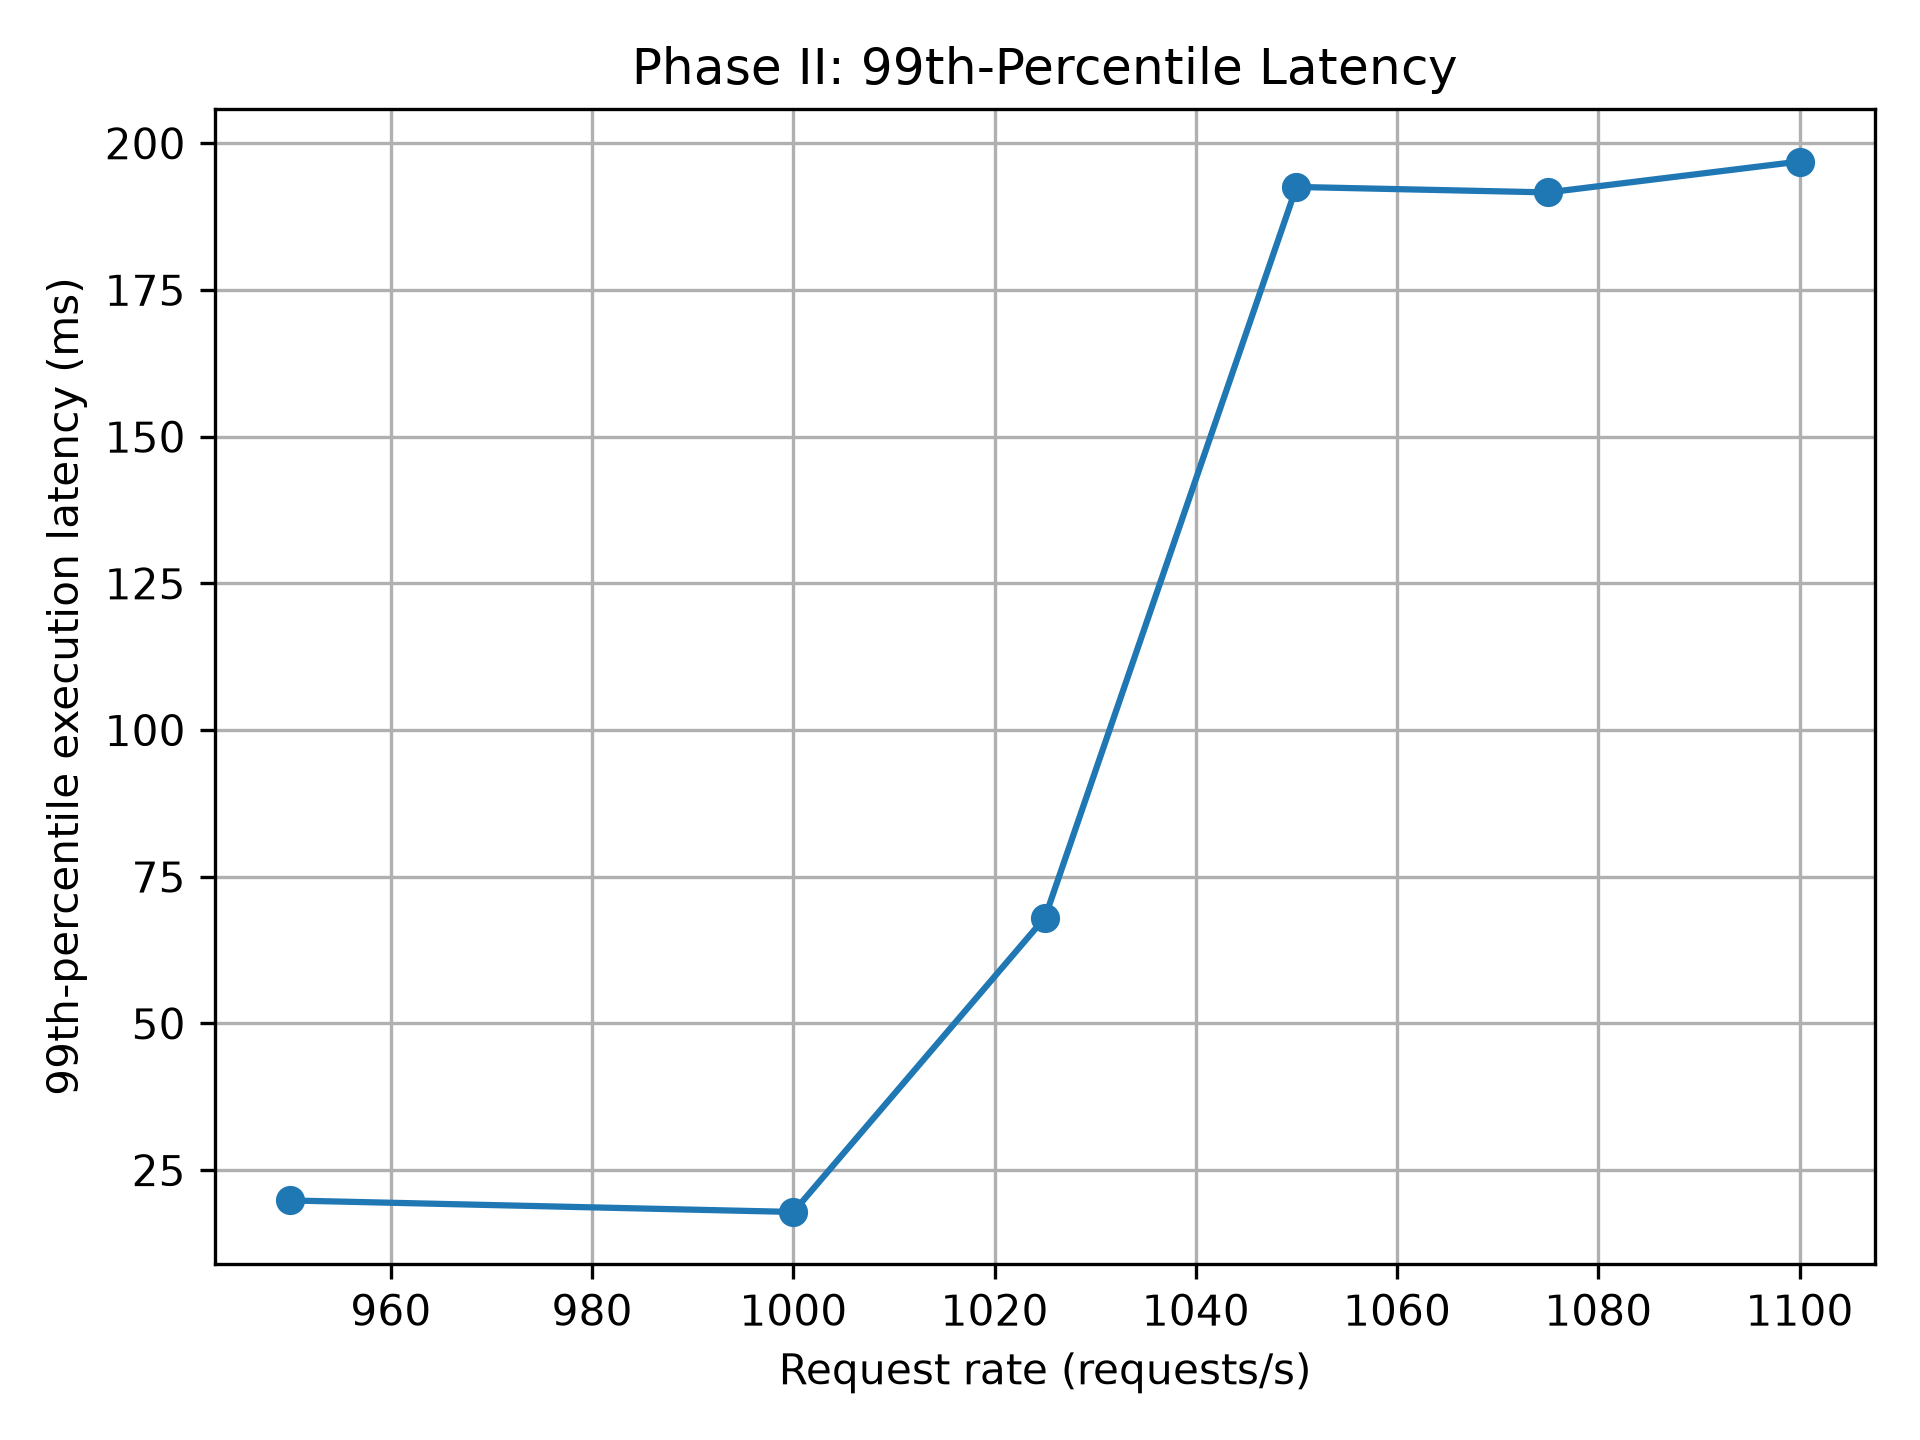
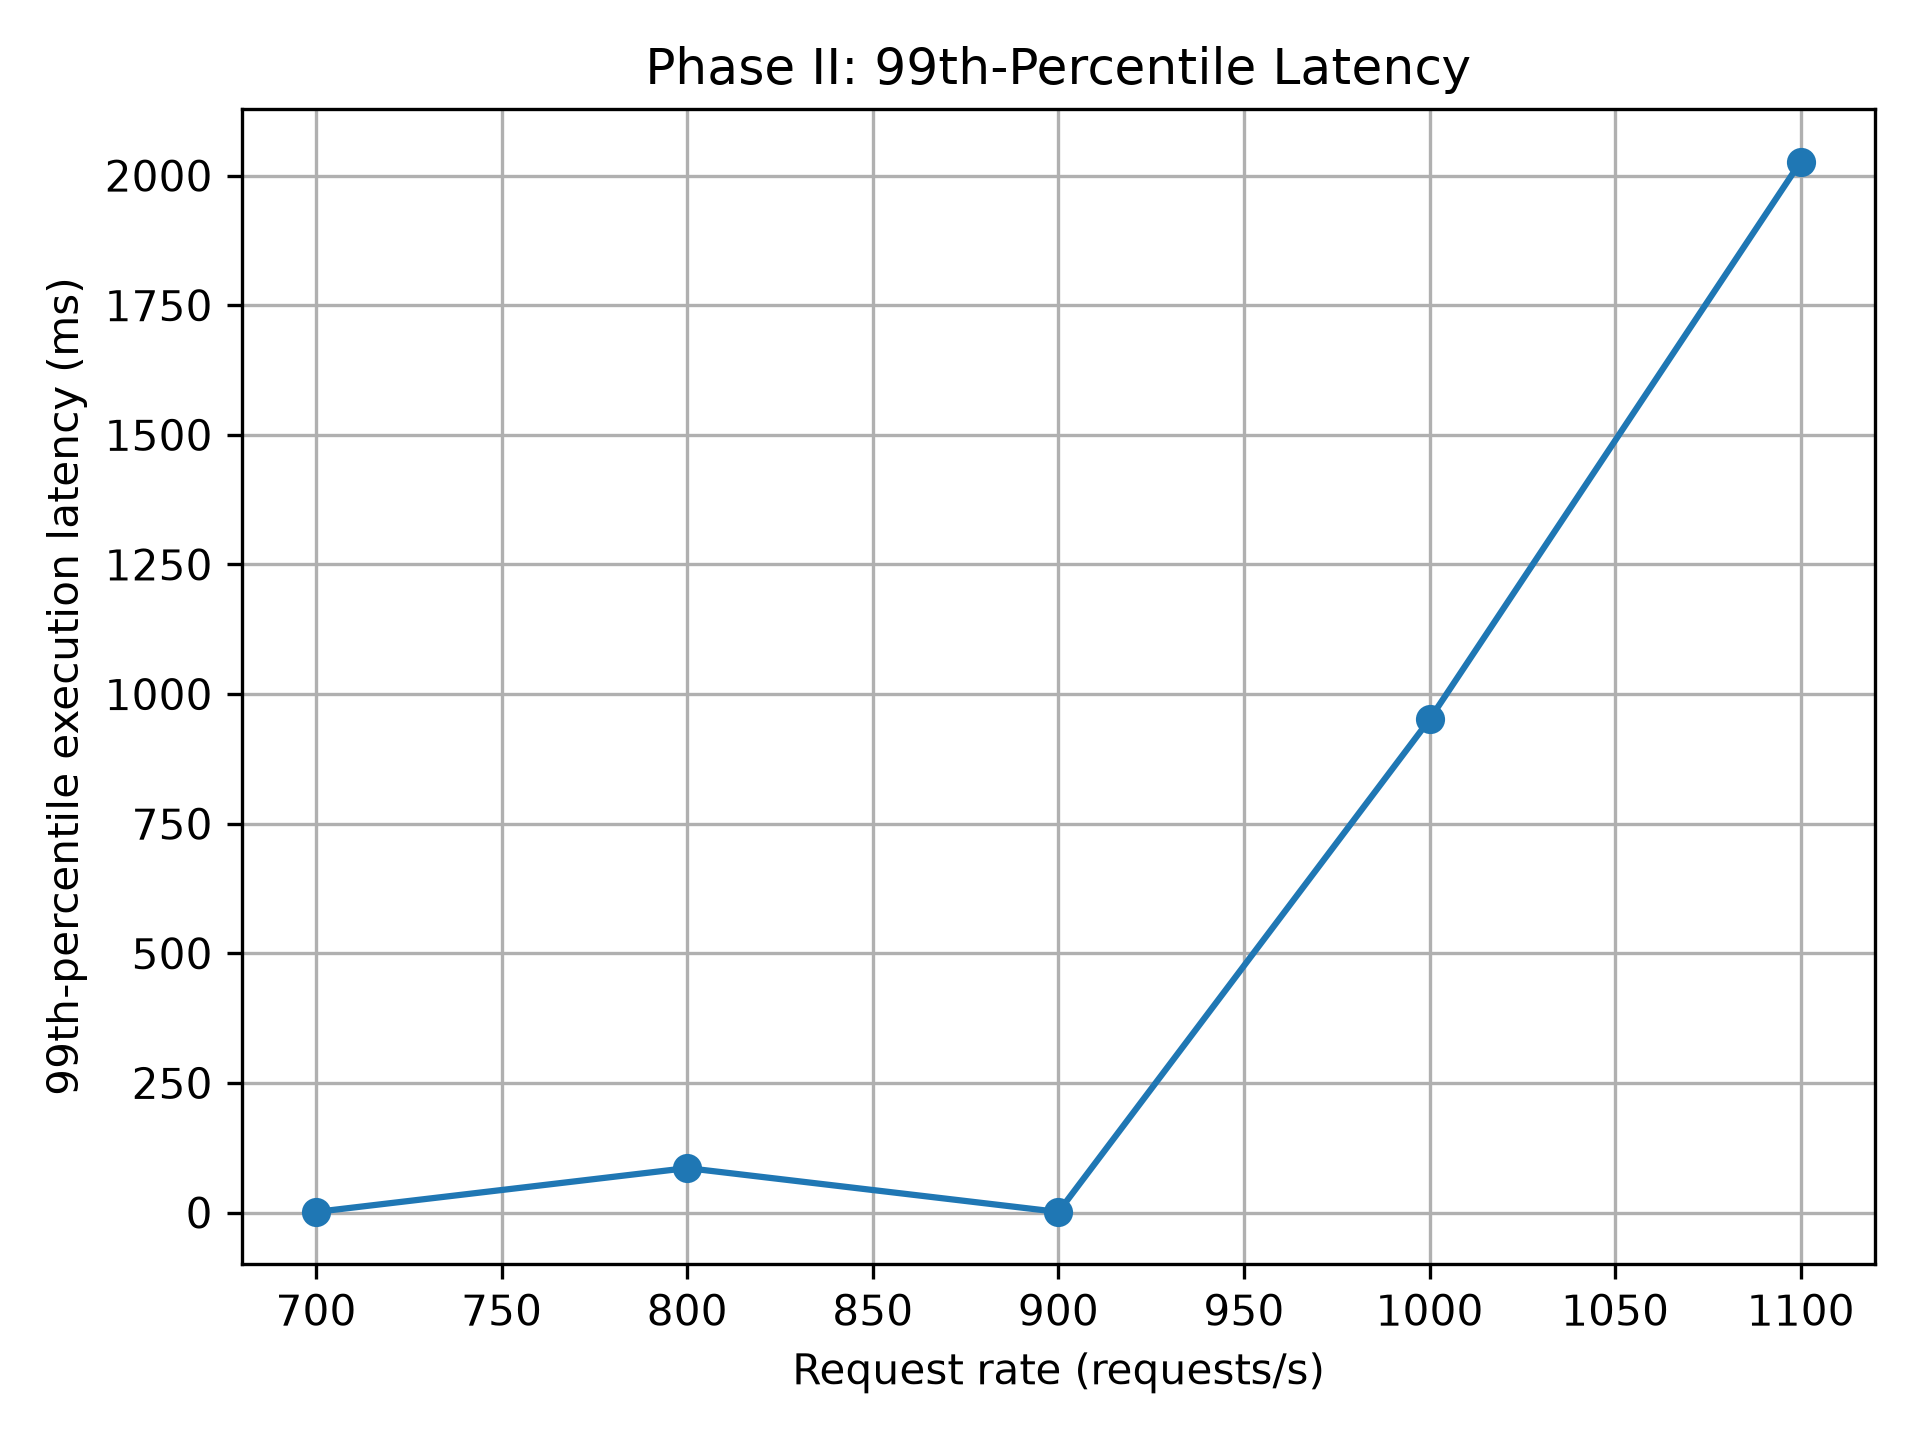
updates

diff --git a/wordCount/benchmark.py b/wordCount/benchmark.py
@@ -19,7 +19,7 @@ TEXT_REFERENCE = "sample2.txt"
 
 # Request rates (requests per second)
 
-REQUEST_RATES = [880, 890, 900, 910, 920]
+REQUEST_RATES = [1000, 1020, 1040, 1060, 1080, 1100]
 
 #REQUEST_RATES = [50, 60, 70, 80, 90, 100]
 
@@ -28,7 +28,6 @@ DURATION_SECONDS = 10
 
 # Maximum number of concurrent threads to use for sending requests
 MAX_WORKERS = 100
-
 
 # Keywords to check
 KEYWORDS = [
